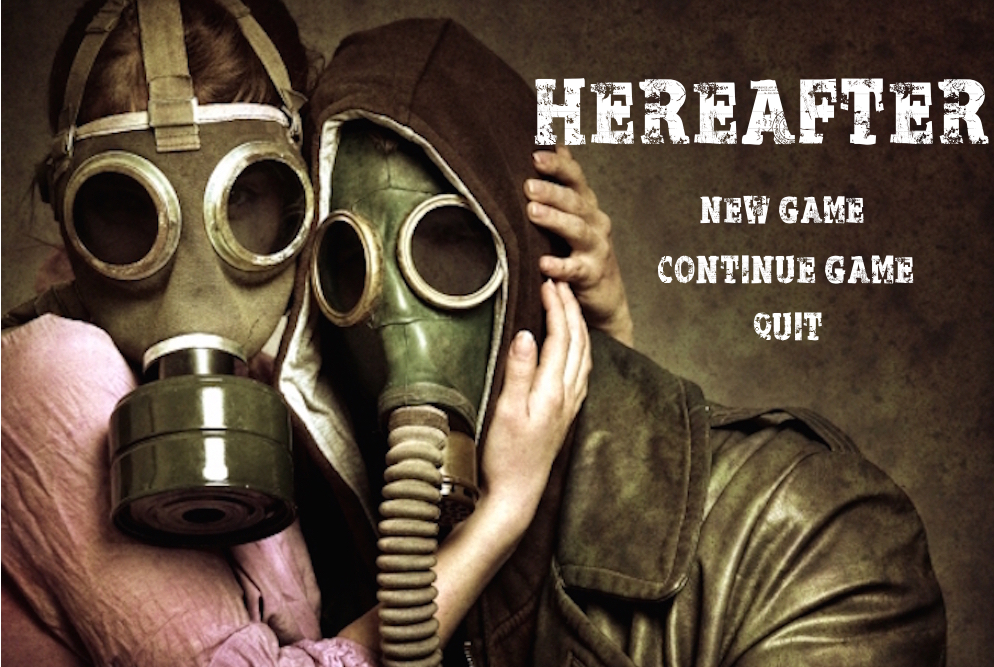
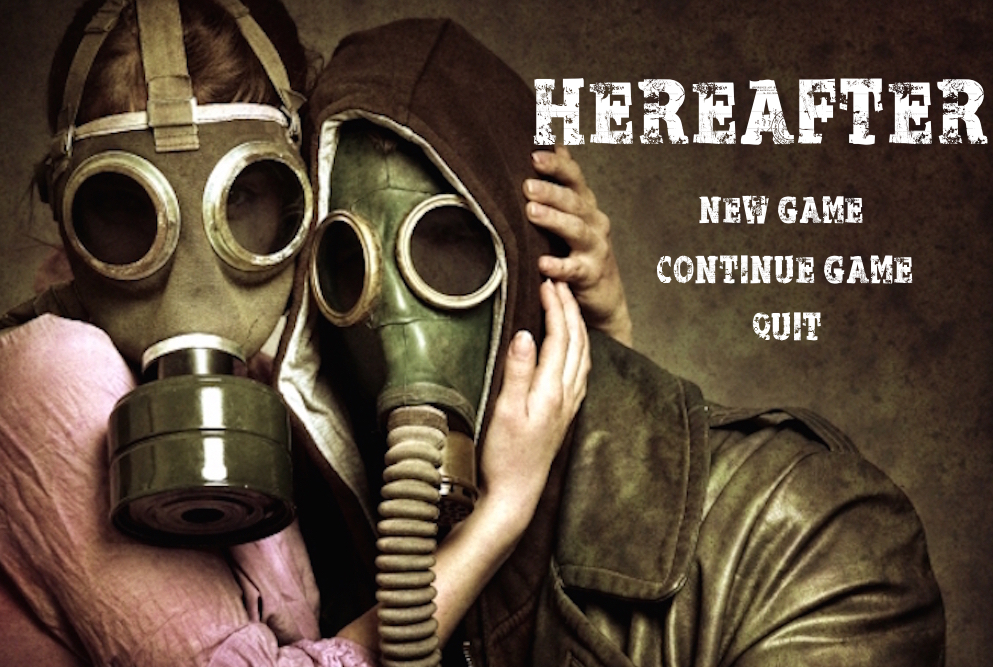
was playing around trying to find a good way to resize the screen without breaking the start-up button clicks. Tried a whole bunch of things nothing worked. So gave up for now have a janky idea how to get around all thisbut yea... ended up changing a little but in trpggui with order of the window po

diff --git a/FinalProject/src/view/SetupPanel.java b/FinalProject/src/view/SetupPanel.java
@@ -39,9 +39,9 @@ import java.awt.event.MouseMotionListener;
 
 public class SetupPanel extends JPanel {
 
+	
 	private BufferedImage background, setUp1, setUp2, soldier;
-	private ImageIcon doctor, engineer, ranger,
-			sniper;
+	private ImageIcon doctor, engineer, ranger,sniper;
 	private JLabel title;
 	private JTextArea userName, docNum, soldNum, engNum, rangNum, snipNum;
 	private JButton select, wait, item, attack, move, help;
@@ -61,8 +61,7 @@ public class SetupPanel extends JPanel {
 		try {
 			background = ImageIO.read(new File("unitSelect.jpg"));
 			setUp1 = ImageIO.read(new File("FinalStartScreenBackground.png"));
-			setUp2 = ImageIO.read(new File(
-					"FinalStartScreenBackgroundDifficulty.png"));
+			setUp2 = ImageIO.read(new File("FinalStartScreenBackgroundDifficulty.png"));
 			doctor = new ImageIcon(ImageIO.read(new File("unitSelect.jpg"))); 
 			engineer = new ImageIcon(ImageIO.read(new File("unitSelect.jpg"))); 
 			ranger = new ImageIcon(ImageIO.read(new File("unitSelect.jpg"))); 
@@ -266,12 +265,14 @@ public class SetupPanel extends JPanel {
 						snips--;
 					}
 
+					
 					controller = new GameController(player, difficulty);
 					controller.getMap().addObserver((Observer) graphical);
 					((GraphicalView) graphical).setController(controller);
 					controller.getMap().addObserver((Observer) text);
 					((TextView) text).setController(controller);
 					actualMap();
+					
 				} else {
 					JOptionPane.showMessageDialog(null,
 							"The number of units must add up to 5");
@@ -280,7 +281,7 @@ public class SetupPanel extends JPanel {
 				JOptionPane.showMessageDialog(null, userName.getText()
 						+ " did not enter a valid input");
 			}
-
+			
 		}
 	}
 

diff --git a/FinalProject/src/view/TRPGGUI.java b/FinalProject/src/view/TRPGGUI.java
@@ -1,14 +1,18 @@
 package view;
 
 
+
 import javax.swing.JTabbedPane;
+
 import java.awt.BorderLayout;
 import java.awt.Font;
 import java.awt.GridLayout;
+
 import javax.swing.JButton;
 import javax.swing.JFrame;
 import javax.swing.JLabel;
 import javax.swing.JPanel;
+
 import controller.GameController;
 
 /**
@@ -27,20 +31,25 @@ public class TRPGGUI extends JFrame {
 	
 
 	public static void main(String[] args) {
-		new TRPGGUI().setVisible(true);
+		javax.swing.SwingUtilities.invokeLater(new Runnable() {
+            public void run() {
+            	new TRPGGUI();
+            }
+        });
 	}
 
 	public TRPGGUI() {	
-		this.setSize(995, 660);
-		this.setVisible(true);
-		this.setLocation(100, 0);
+		
+		this.setSize(998, 660);
+		this.setLocation(100, 10);
 		
 		setTitle("HereAfter");
 		setDefaultCloseOperation(JFrame.EXIT_ON_CLOSE);
 		this.setResizable(false);
 		
 		this.add(new SetupPanel());
-	}
+		this.setVisible(true);
 	
+	}
 
 }
